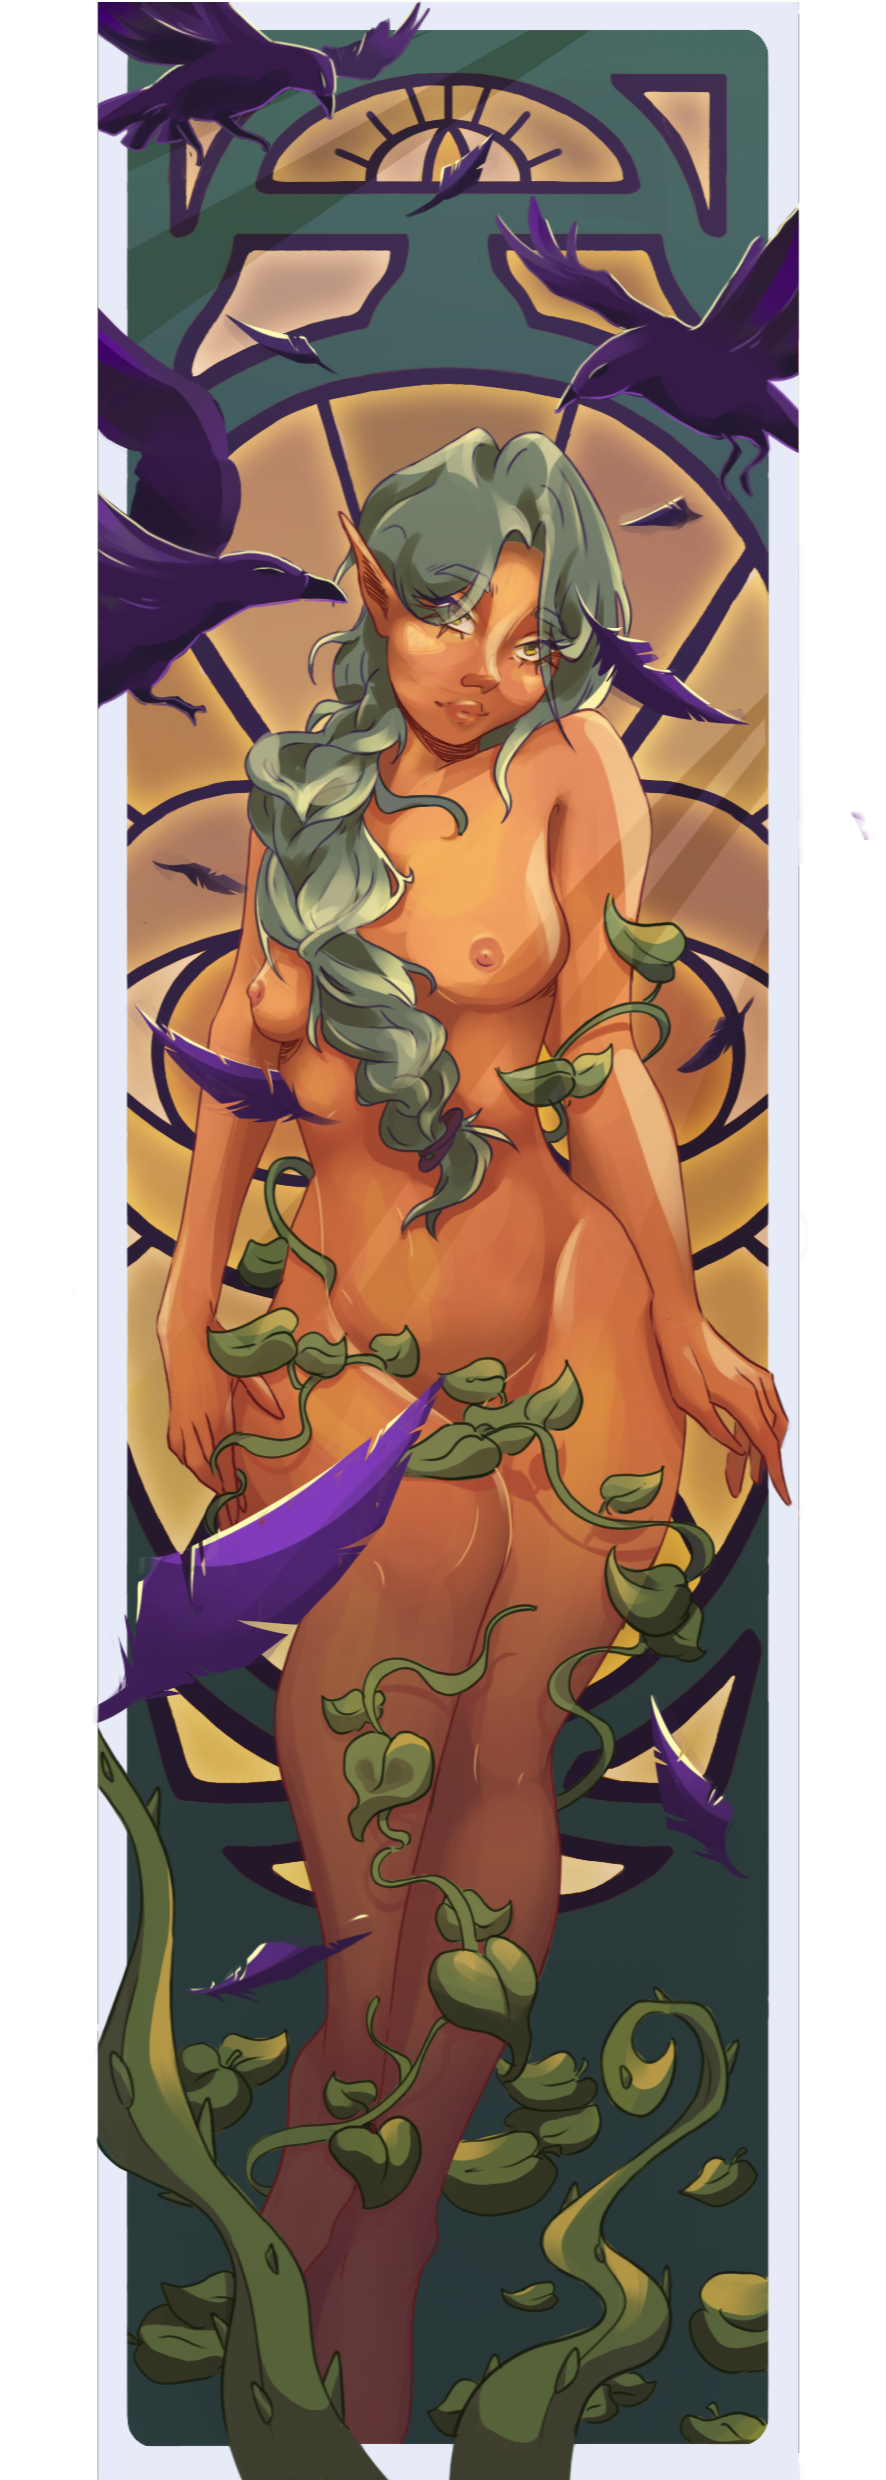
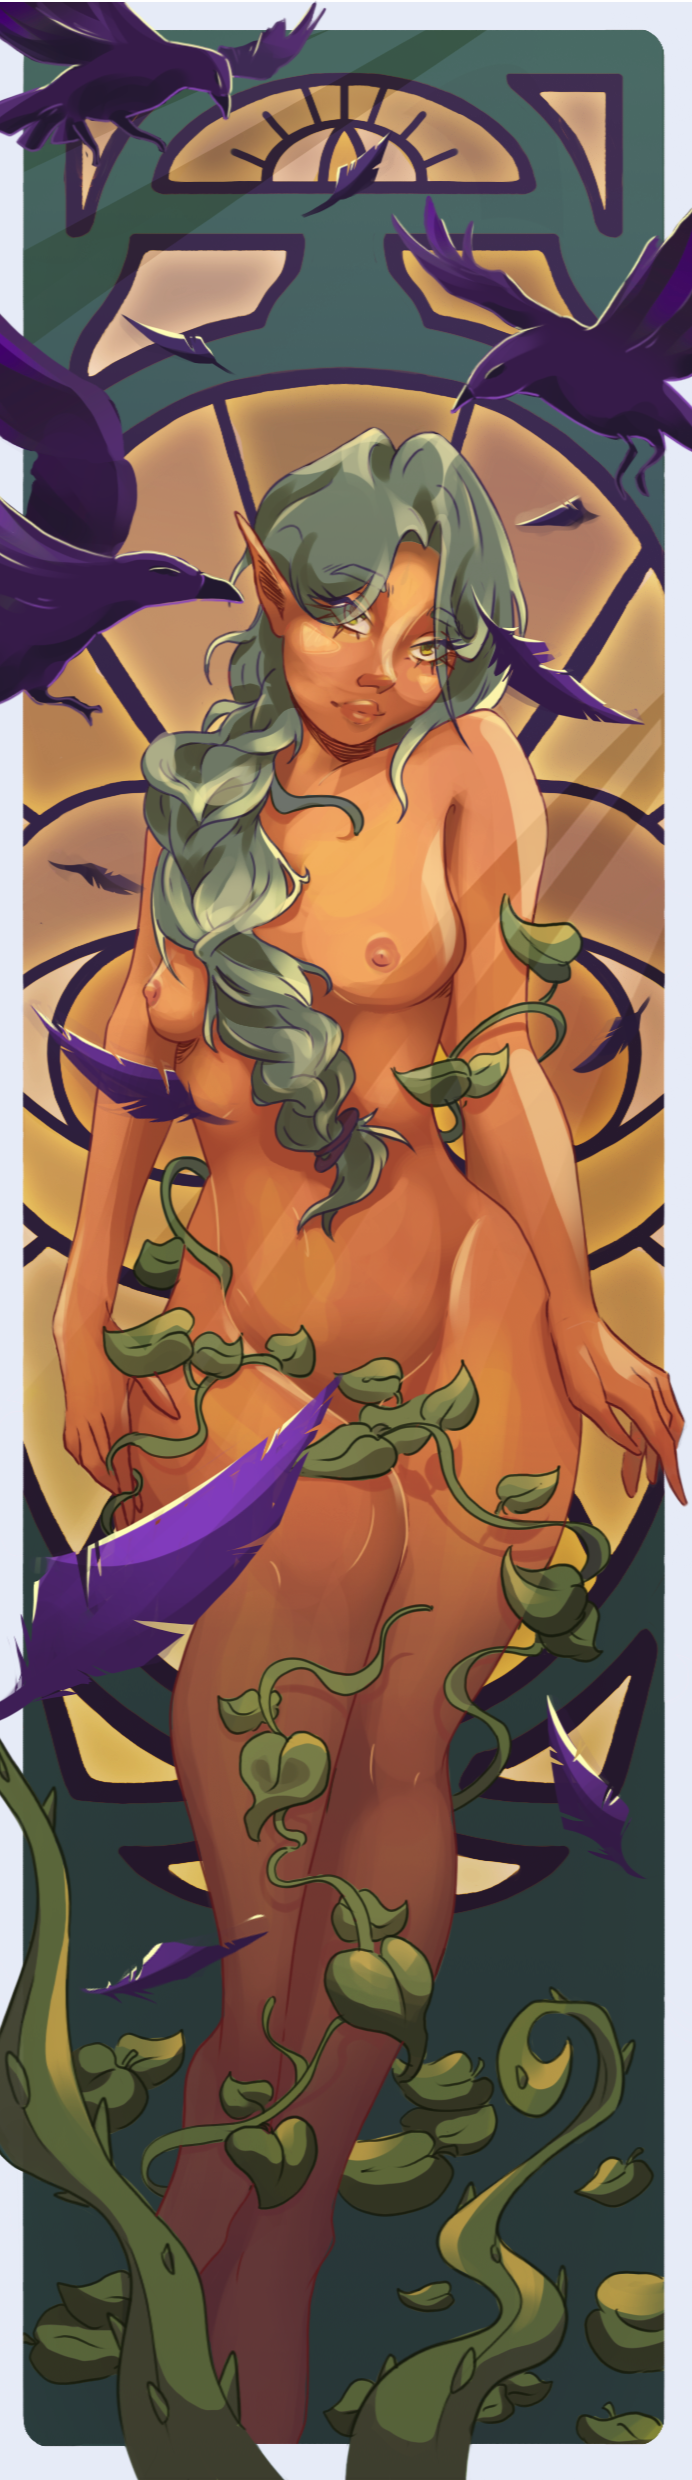
Tri des projets

diff --git a/index.html b/index.html
@@ -74,13 +74,13 @@
                         <div class="imgtitle">PERSONAL PROJECT: L'Odysee</div>
                     </div>
                 </div>
-                <div class="album-mosaic-item imgformodal" data-fld-width="887" data-fld-height="2480">
+                <div class="album-mosaic-item imgformodal" data-fld-width="692" data-fld-height="2480">
                     <img class="album-mosaic-image" src="image/marque page_autumn1.png" width="273" alt="Autumn bookmark">
                     <div onclick='zoomimg("image/marque page_autumn1.png","Autumn bookmark" )' class="overlay">
                         <div class="imgtitle">Autumn bookmark</div>
                         </div>
                     </div>
-                <div class="album-mosaic-item imgformodal" data-fld-width="887" data-fld-height="2480">
+                <div class="album-mosaic-item imgformodal" data-fld-width="692" data-fld-height="2480">
                 <img class="album-mosaic-image" src="image/marque page_spring1.png" width="273" alt="Spring bookmark">
                 <div onclick='zoomimg("image/marque page_spring1.png", "Spring bookmark")' class="overlay">
                     <div class="imgtitle">Spring bookmark</div>
@@ -104,12 +104,12 @@
                         <div class="imgtitle">PROJECT: Hogwart Legacy Fan Art</div>
                     </div>
                 </div>
-                <div class="album-mosaic-item imgformodal" data-fld-width="3508" data-fld-height="4961">
+                <!-- <div class="album-mosaic-item imgformodal" data-fld-width="3508" data-fld-height="4961">
                     <img class="album-mosaic-image" src="image/Illu_wat_2024_Eucalis.png" width="273" alt="Illustration for the Week and Art">
                     <div onclick='zoomimg("image/Illu_wat_2024_Eucalis.png", "Illustration with Solarpunk theme made for a contest.")' class="overlay">
                         <div class="imgtitle">Week and Art Illustration: theme Solarpunk</div>
                     </div>
-                </div>
+                </div> -->
                 <div class="album-mosaic-item imgformodal" data-fld-width="8465" data-fld-height="4331">
                     <img class="album-mosaic-image" src="image/Couverture et dos.png" width="847" alt="Escape Book Illustration">
                     <div onclick='zoomimg("image/Couverture et dos.png", "Escape Book Illustration for the front and the back covers of an escape together.")' class="overlay">

diff --git a/background_design.html b/background_design.html
@@ -81,12 +81,12 @@ include('header.php');
                         <div class="imgtitle">Roseus Graduation Project</div>
                     </div>
                 </div>
-                <div class="album-mosaic-item imgformodal" data-fld-width="2732" data-fld-height="1362">
+                <!-- <div class="album-mosaic-item imgformodal" data-fld-width="2732" data-fld-height="1362">
                     <img class="album-mosaic-image" src="image/Blue_Pegasus_Keyframe.jpg" width="273" alt="Keyframe of The Blue Pegasus. The establishment is a sexually-centered club and casino with striptease and various other entertainments in a psychedelic ambiance.">
                     <div onclick='zoomimg("image/Blue_Pegasus_Keyframe.jpg", "Keyframe of The Blue Pegasus. The establishment is a sexually-centered club and casino with striptease and various other entertainments in a psychedelic ambiance.")' class="overlay">
                         <div class="imgtitle">PROJECT: Hazbin Hotel Fan Art</div>
                     </div>
-                </div>
+                </div> -->
                 <div class="album-mosaic-item imgformodal" data-fld-width="8000" data-fld-height="4500">
                     <img class="album-mosaic-image" src="image/Hazbin hotel/Fan_Art_HAZBIN_HOTEL.png" width="273" alt="A few sketches for the club, the inspiration was the lighting ambiance of casinos and theaters of the seventies, such as the Las Vegas vibe.">
                     <div onclick='zoomimg("image/Hazbin hotel/Fan_Art_HAZBIN_HOTEL.png", "A few sketches for the club, the inspiration was the lighting ambiance of casinos and theaters of the seventies, such as the Las Vegas vibe.")' class="overlay">

diff --git a/chara_design.html b/chara_design.html
@@ -66,12 +66,12 @@ include('header.php');
                         <div class="imgtitle">PERSONAL PROJECT: L'Odysee</div>
                     </div>
                 </div>
-                <div class="album-mosaic-item imgformodal" data-fld-width="8000" data-fld-height="4500">
+                <!-- <div class="album-mosaic-item imgformodal" data-fld-width="8000" data-fld-height="4500">
                     <img class="album-mosaic-image" src="image/Odysee/Ulysse_Page_1.1.png" width="321" alt="Research of Peneloppe, main character of a video games project">
                     <div onclick='zoomimg("image/Odysee/Ulysse_Page_1.1.png", "Research of Peneloppe, main character of a video games project")' class="overlay">
                         <div class="imgtitle">PERSONAL PROJECT: L'Odysee</div>
                     </div>
-                </div>
+                </div> -->
                 <div class="album-mosaic-item imgformodal" data-fld-width="8000" data-fld-height="4500">
                     <img class="album-mosaic-image" src="image/Artside/palaestra_final.png" width="321" alt="Chara Design inspired by Greek mythology, specifically Palaestra">
                     <div onclick='zoomimg("image/Artside/palaestra_final.png", "Chara Design inspired by Greek mythology, specifically Palaestra")' class="overlay">
